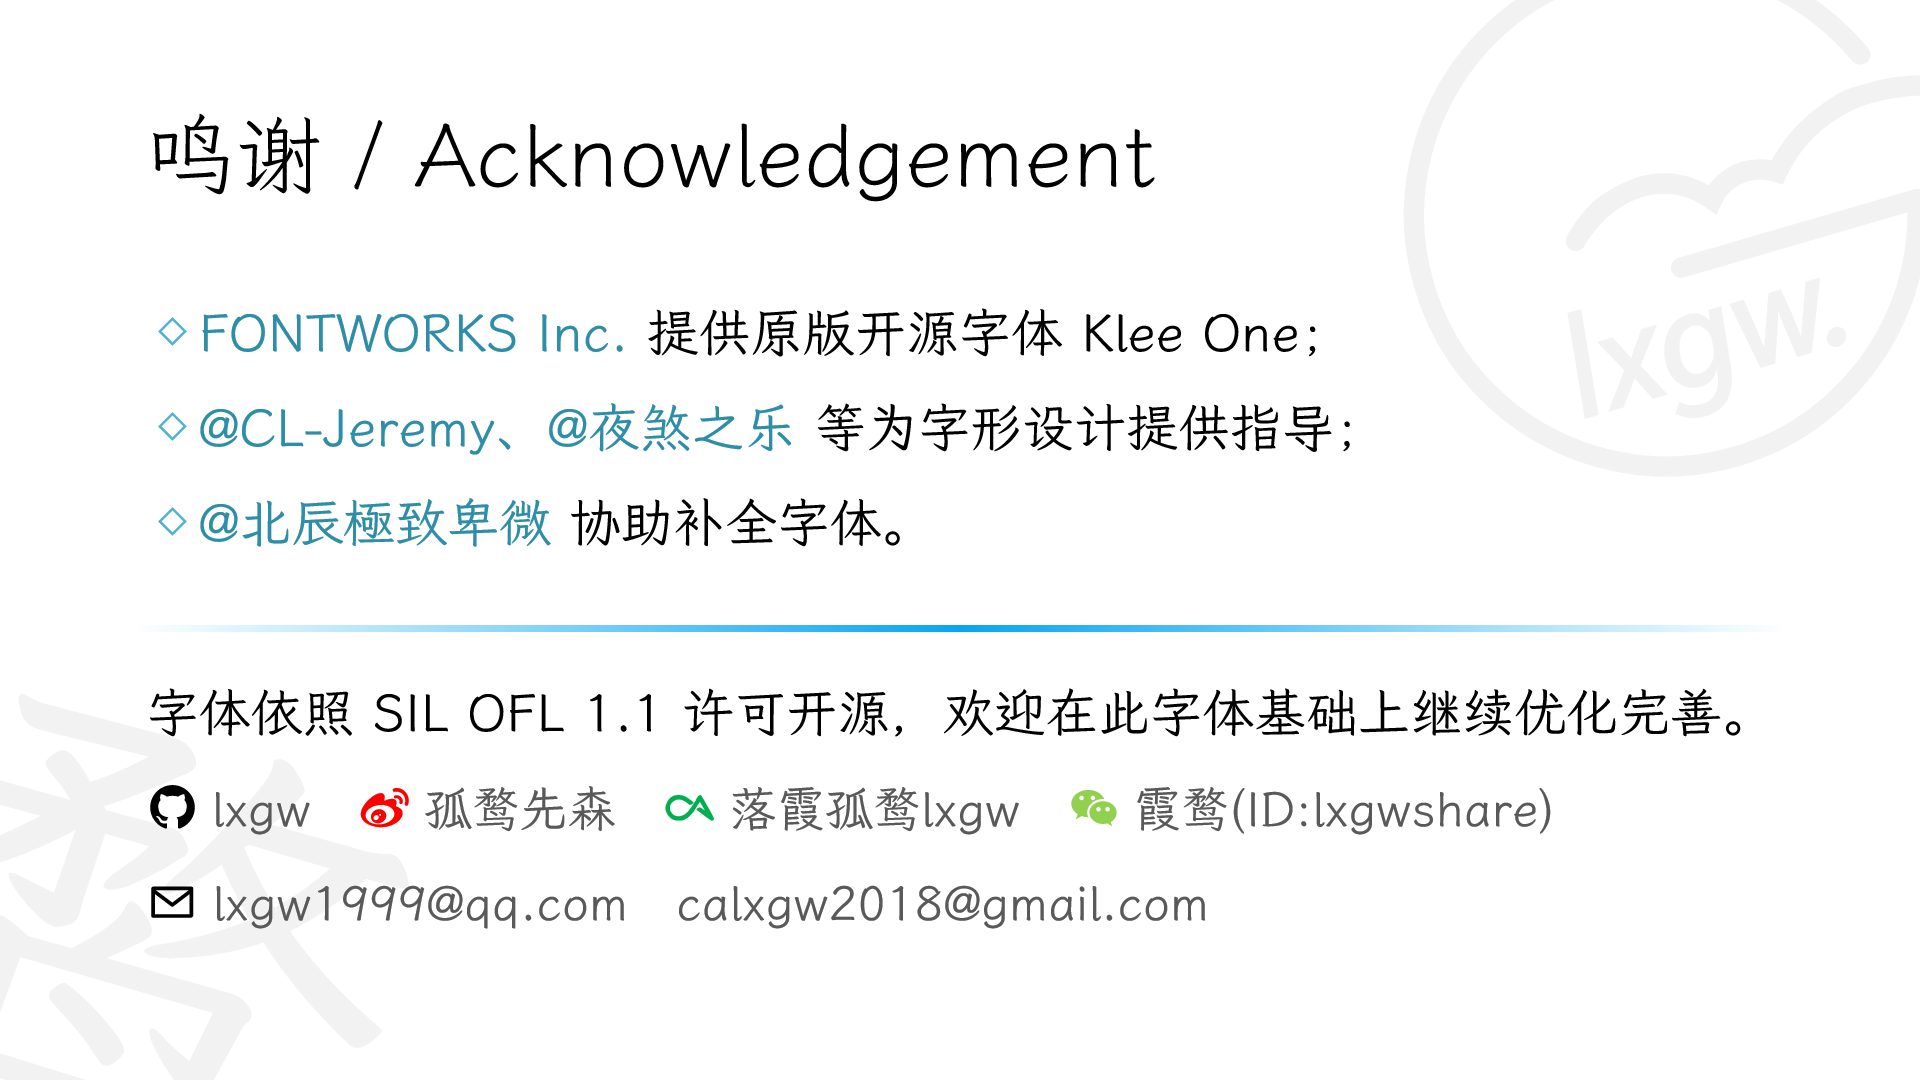
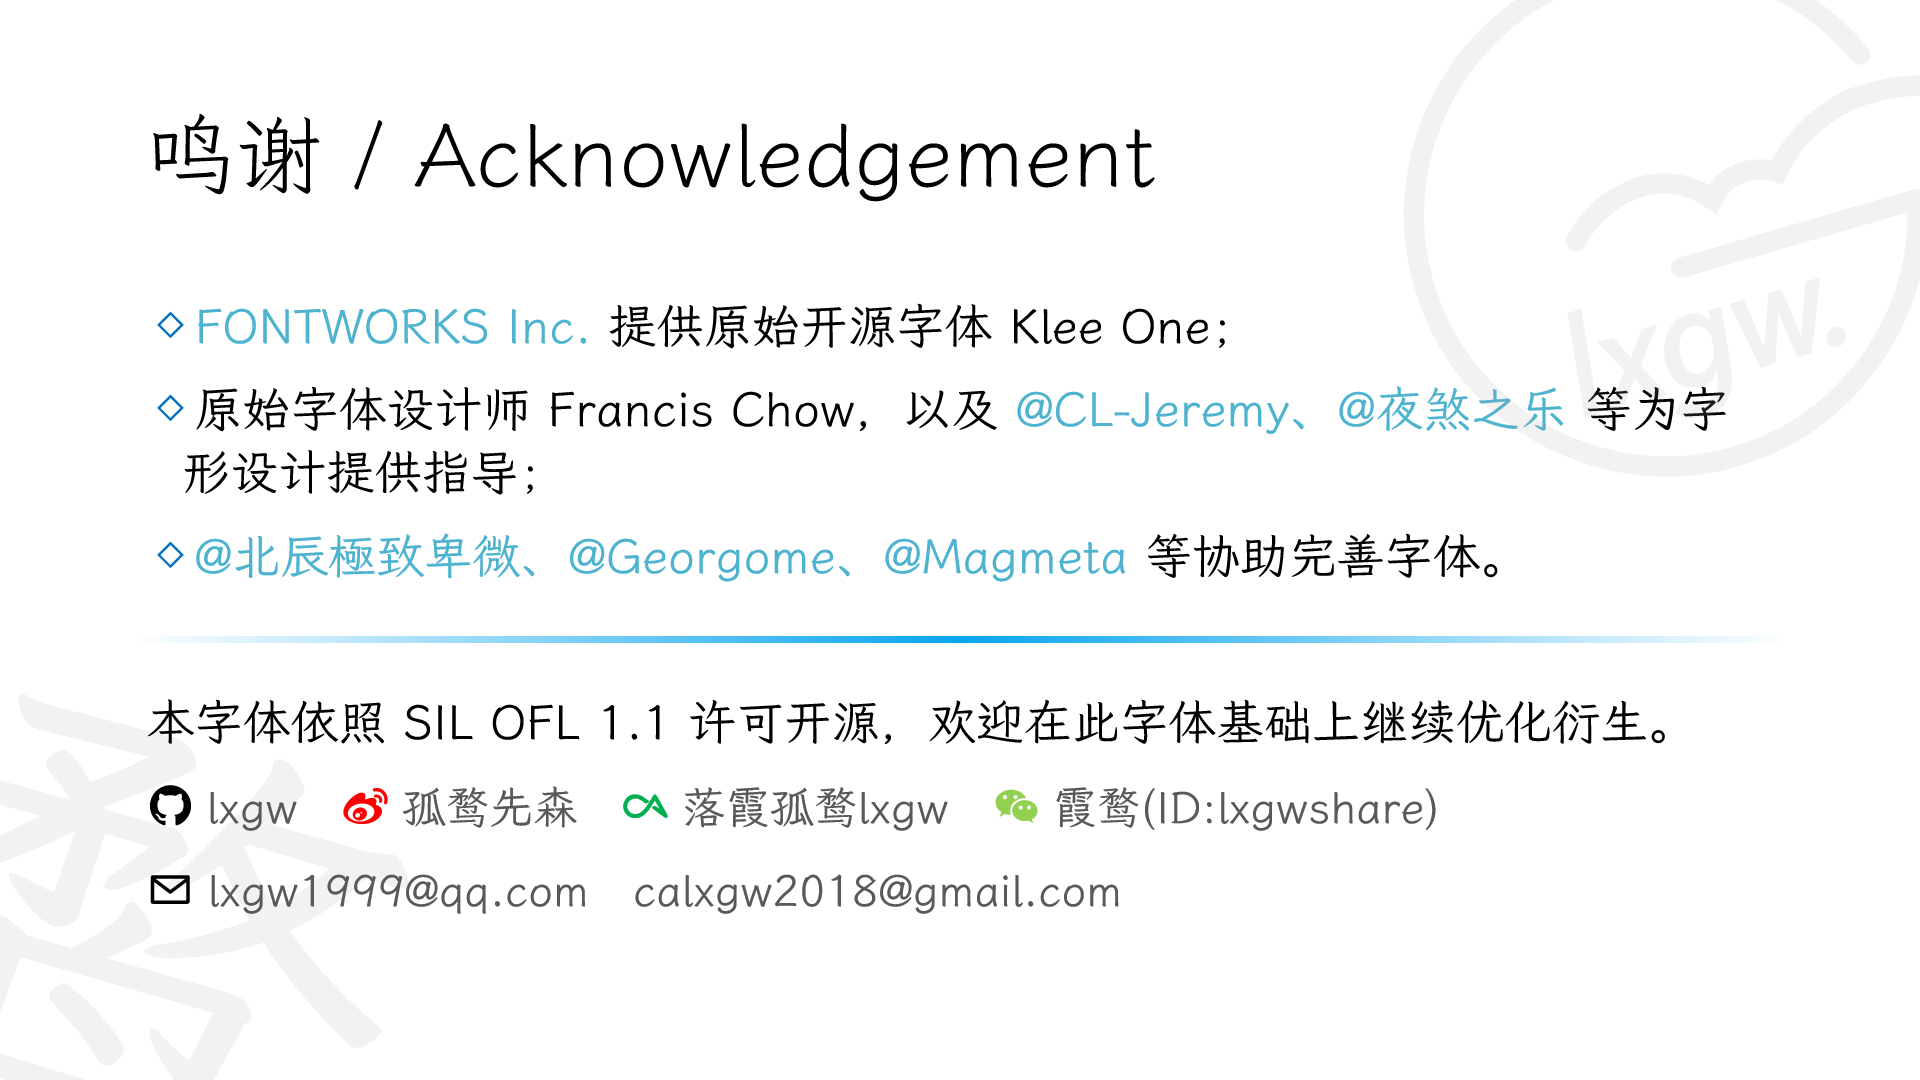
update readme

diff --git a/README.MD b/README.MD
@@ -87,15 +87,16 @@
 ### 限制
 
 - 在制作衍生字体时，字体名称不可使用原有字体的「保留名称」。本字体保留名称「霞鹜」「LXGW」，基于本字体二次衍生的字体，名称不可出现「霞鹜」或「LXGW」字样；而在没有对字体源代码进行修改的情况下，重新编译出来的字体，可以继续使用本字体的保留名称「霞鹜」「LXGW」。
-- 根据 [SIL Open Font License 1.1](https://scripts.sil.org/OFL) 的规定， **禁止单独出售字体文件(OTF/TTF文件)的行为。**
+- 根据 [SIL Open Font License 1.1](https://scripts.sil.org/OFL)「许可与条件」中第 1 条的规定， **禁止单独出售字体文件(OTF/TTF文件)的行为。**
 - 该字体不可在 [SIL Open Font License 1.1](https://scripts.sil.org/OFL) 以外的授权许可下发行。
 
 ## 鸣谢
 
-- [FONTWORKS 株式会社](http://fontworks.co.jp) 提供原版开源字体； [开发者 GitHub 主页](https://github.com/fontworks-fonts/)
-- [@CL-Jeremy](https://github.com/CL-Jeremy)、[@夜煞之乐](https://github.com/NightFurySL2001) 为字形设计提供指导；
-- [@夜煞之乐](https://github.com/NightFurySL2001) 为本项目的运营提供帮助；
-- [@北辰極致卑微](https://weibo.com/u/5327681980?) 协助补全字体。
+- [FONTWORKS 株式会社](http://fontworks.co.jp) 提供原始开源字体； [开发者 GitHub 主页](https://github.com/fontworks-fonts/)
+- 原始字体的设计师 Francis Chow，以及 [@CL-Jeremy](https://github.com/CL-Jeremy)、[@夜煞之乐](https://github.com/NightFurySL2001) 等为字形设计提供指导；
+- [@夜煞之乐](https://github.com/NightFurySL2001) 等为本项目的运营提供帮助；
+- [@北辰極致卑微](https://weibo.com/u/5327681980?)、@Georgome、[@Magmeta](https://github.com/Des-Magmeta)、[@Steve-Yuu](https://github.com/Steve-Yuu) 等协助完善字体；
+- [Iosevka](https://github.com/be5invis/Iosevka) / [Nerd-Fonts](https://github.com/ryanoasis/nerd-fonts) 提供 Powerline 符号。 
 
 ## 相关资料
 - [通用规范汉字表](http://www.moe.gov.cn/jyb_sjzl/ziliao/A19/201306/t20130601_186002.html)
@@ -118,9 +119,10 @@
 
 ## 其它项目
 
-- [霞鹜新晰黑 / Lxgw Neo XiHei](https://github.com/lxgw/LxgwNeoXiHei)
+- [霞鹜文楷（完整版）/ LXGW WenKai (full edition)](https://github.com/lxgw/LxgwWenKai) | [国标字形](https://github.com/lxgw/LxgwWenKaiGB) | [旧字形](https://github.com/lxgw/LxgwWenKaiTC)
+- [霞鹜新晰黑 / LXGW Neo XiHei](https://github.com/lxgw/LxgwNeoXiHei)
 - [霞鹜新致宋 / LXGW Neo ZhiSong](https://github.com/lxgw/LxgwNeoZhiSong)
-- [霞鹜漫黑 / Lxgw Marker Gothic](https://github.com/lxgw/LxgwMarkerGothic)
+- [霞鹜漫黑 / LXGW Marker Gothic](https://github.com/lxgw/LxgwMarkerGothic)
 - [小赖字体 / Xiaolai](https://github.com/lxgw/kose-font)
 - [悠哉字体 / Yozai](https://github.com/lxgw/yozai-font)
 
